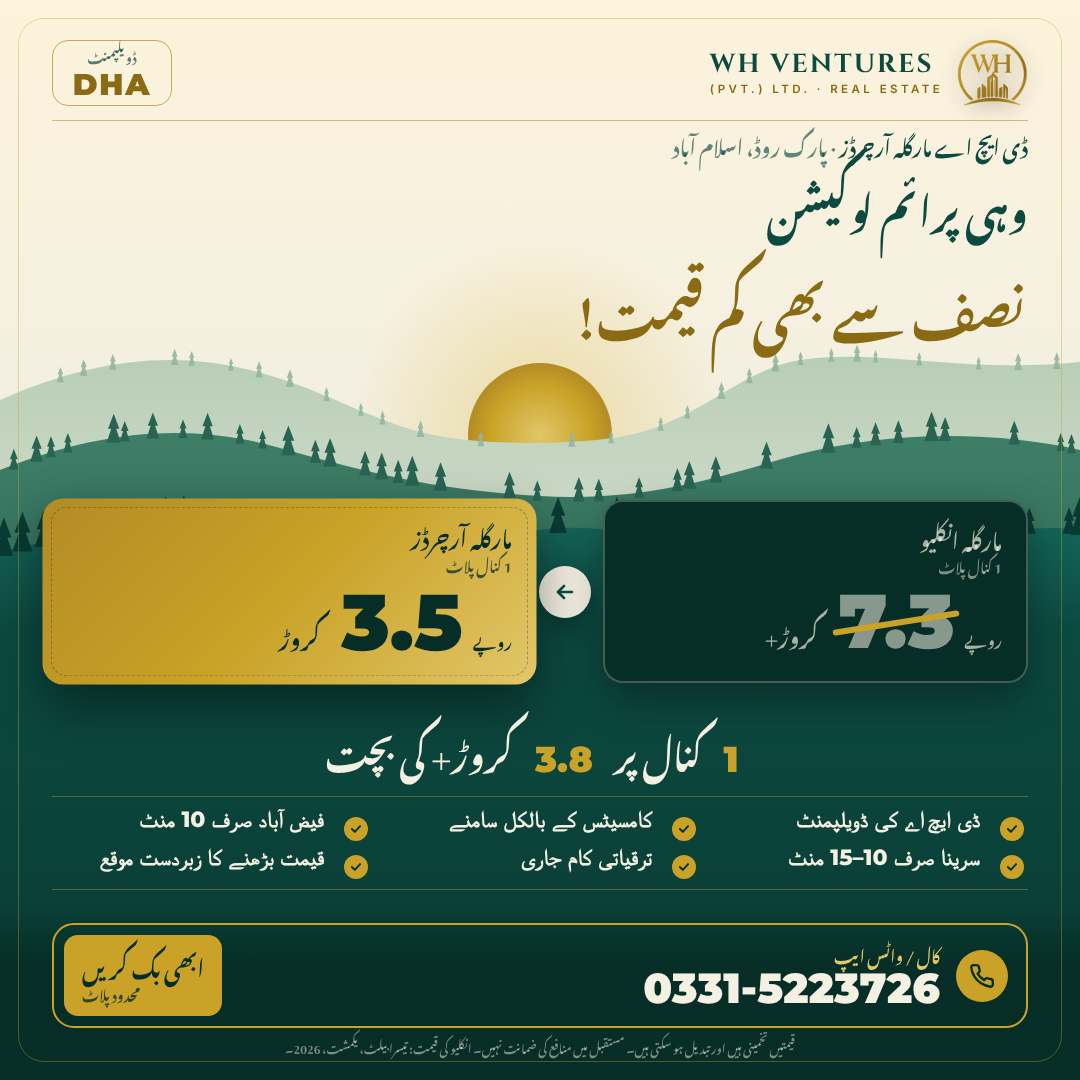
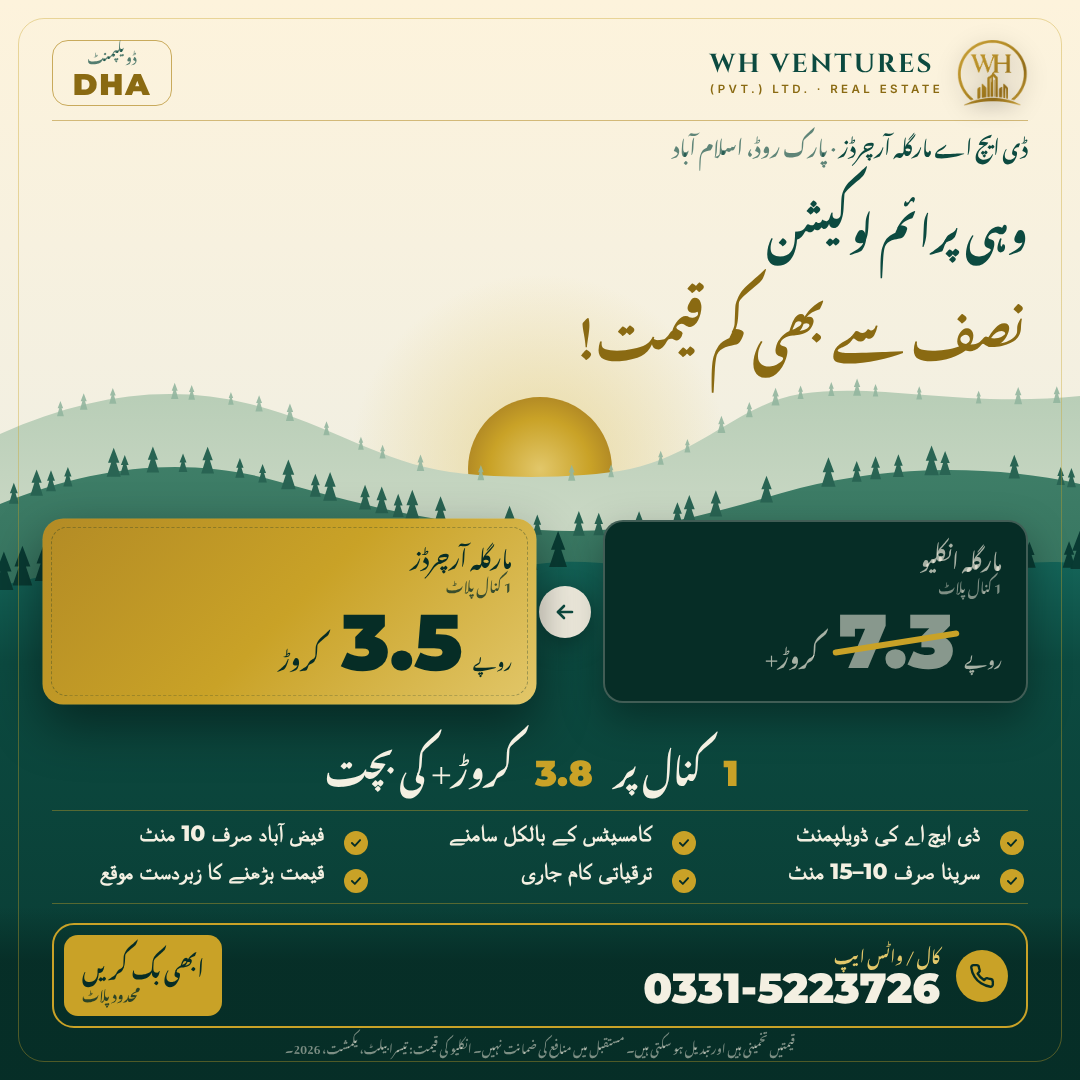
Add space above the Urdu 'wahi prime location' line so لوکیشن clears the line above
Claude-Session: https://claude.ai/code/session_012xCc4tTPPKid5Gvtu7R153

Changed region(s): [[0.0, 0.1528, 1.0, 0.825], [0.7333, 0.7333, 0.9472, 0.825], [0.55, 0.6111, 0.5806, 0.6417]]

diff --git a/ads/margalla-orchards/variants.html b/ads/margalla-orchards/variants.html
@@ -383,6 +383,27 @@ html,body{background:#111}
 .square.mtn.ur.C .saveline{margin-top:40px}
 .square.mtn.ur.C .tickets{margin-top:150px}
 .square.mtn.ur.C .checks{margin-top:8px;gap:4px 16px;padding:10px 4px}
+
+/* Urdu: space between the small top line and "وہی پرائم لوکیشن" (tall ک of لوکیشن) */
+.ur.C .headline .l1{padding-top:.5em}
+.mtn.ur.C .tickets{margin-top:110px}
+.square.mtn.ur.C .tickets{margin-top:132px}
+.story.mtn.ur.C .tickets{margin-top:122px}
+
+/* Urdu: move the mountain scene down so the headline sits clear in the sky */
+.mtn.ur{--sceneY:92px}
+.mtn.ur.C:not(.story):not(.square) .headline .l1{font-size:46px}
+.mtn.ur.C:not(.story):not(.square) .headline .l2{font-size:56px;padding-top:.7em}
+.mtn.ur.C .tickets{margin-top:142px}
+.mtn.ur.C .saveline{margin-top:34px}
+.mtn.ur.C .checks{margin-top:10px;gap:0 34px;padding:10px 26px}
+.square.mtn.ur{--sceneY:-36px}
+.square.mtn.ur.C .tickets{margin-top:150px}
+.square.mtn.ur.C .saveline{margin-top:34px}
+.story.mtn.ur{--sceneY:336px}
+.story.mtn.ur.C .tickets{margin-top:222px}
+.story.mtn.ur.C .saveline{margin-top:46px}
+.story.mtn.ur.C .checks{margin-top:18px;gap:2px 34px;padding:14px 26px}
 </style>
 </head>
 <body>
